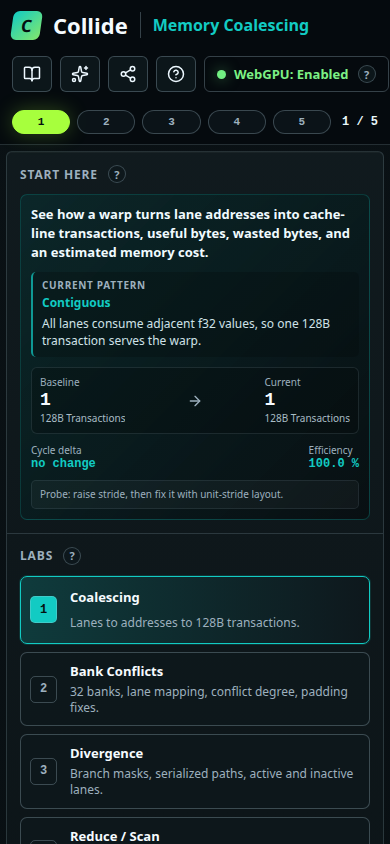
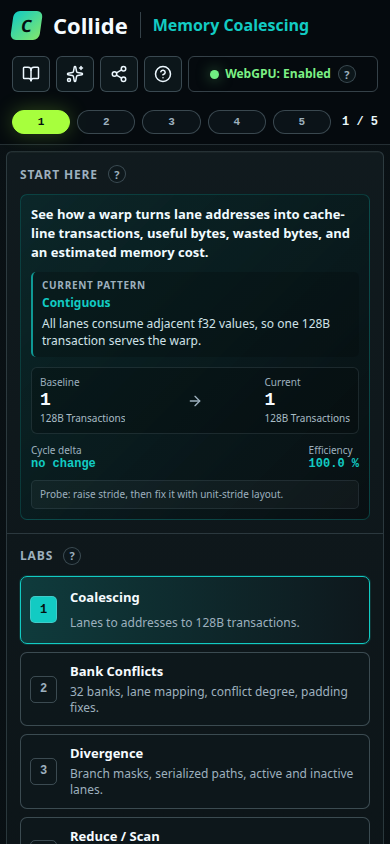
Fix Collide mobile overflow

Changed region(s): [[0.0615, 0.0616, 1.0, 0.1232]]

diff --git a/src/App.css b/src/App.css
@@ -256,6 +256,13 @@
   margin-left: 1px;
 }
 
+.webgpu-label {
+  min-width: 0;
+  overflow: hidden;
+  text-overflow: ellipsis;
+  white-space: nowrap;
+}
+
 .webgpu-pill.ok {
   color: #7cf185;
 }
@@ -1716,7 +1723,8 @@ input[type='range'] {
     height: auto;
     min-height: 100svh;
     grid-template-rows: auto auto auto auto;
-    overflow: visible;
+    overflow-x: hidden;
+    overflow-y: visible;
   }
 
   .topbar {
@@ -1788,6 +1796,28 @@ input[type='range'] {
 
   .brand h1 {
     font-size: 16px;
+  }
+
+  .top-actions {
+    width: 100%;
+    min-width: 0;
+    gap: 6px;
+  }
+
+  .icon-button {
+    width: 38px;
+    flex: 0 0 38px;
+    justify-content: center;
+    padding: 0;
+  }
+
+  .webgpu-pill {
+    min-width: 0;
+    flex: 1 1 0;
+    justify-content: center;
+    gap: 6px;
+    padding: 0 8px;
+    font-size: 12px;
   }
 
   .learning-path {

diff --git a/tests/app.spec.ts b/tests/app.spec.ts
@@ -239,6 +239,7 @@ test('mobile viewport keeps all workbench regions reachable', async ({ page }) =
   await expect(page.locator('.lab-list').getByRole('button', { name: /Bank Conflicts/ })).toBeVisible()
   await expect(page.getByTestId('lab-canvas')).toBeVisible()
   await expect(page.getByText('Metrics (Live)')).toBeVisible()
+  expect(await page.evaluate(() => document.documentElement.scrollWidth <= window.innerWidth + 1)).toBe(true)
 })
 
 test('medium viewport keeps the coalescing diagram near the canvas header', async ({ page }) => {

diff --git a/src/App.tsx b/src/App.tsx
@@ -224,7 +224,7 @@ function App() {
           </button>
           <div className={`webgpu-pill ${runtime ? 'ok' : 'warn'}`} data-testid="webgpu-status">
             <span className="status-dot" />
-            WebGPU: {runtime ? 'Enabled' : status}
+            <span className="webgpu-label">WebGPU: {runtime ? 'Enabled' : status}</span>
             <HelpButton id="webgpu" activeHelp={activeHelp} onToggle={showHelp} />
           </div>
         </nav>
